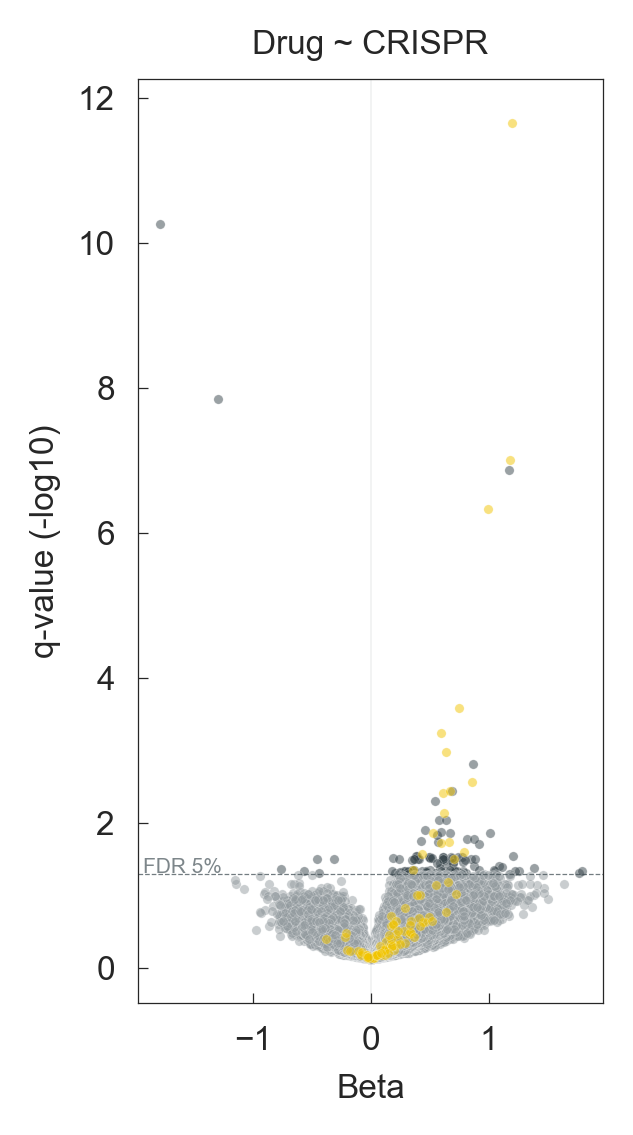
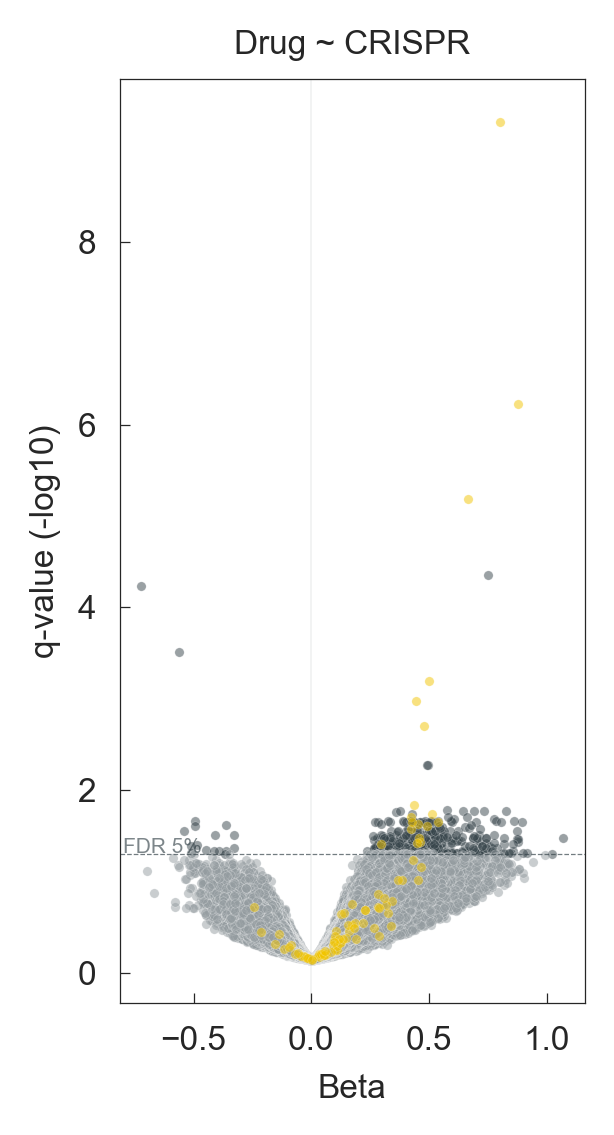
Kinship matrix with linear regression updated

diff --git a/scripts/drug/lmm_drug_crispr.py b/scripts/drug/lmm_drug_crispr.py
@@ -7,8 +7,9 @@ import pandas as pd
 import seaborn as sns
 import itertools as it
 import matplotlib.pyplot as plt
-from crispy import bipal_dbgd
-from scipy.stats import pearsonr
+from limix.plot import qqplot
+from crispy import bipal_dbgd, bipal_gray
+from scipy.stats import pearsonr, iqr, uniform
 from scipy.stats.stats import rankdata
 from limix.stats import qvalues, linear_kinship
 from limix.qtl import qtl_test_lmm, qtl_test_lm
@@ -44,6 +45,7 @@ print('Samples: %d' % len(samples))
 # Drug response
 d_response = d_response[d_response.count(1) > d_response.shape[1] * .85]
 d_response = d_response.loc[(d_response < d_response.mean().mean()).sum(1) >= 5]
+d_response = d_response.loc[[iqr(values, nan_policy='omit') > 1 for idx, values in d_response.iterrows()]]
 
 # CRISPR
 crispr = crispr[(crispr < crispr.loc[essential].mean().mean()).sum(1) < (crispr.shape[1] * .5)]
@@ -58,8 +60,7 @@ ys = d_response[samples].T
 ys = ys.fillna(ys.mean())
 
 xs = crispr[ys.index].T
-xs = xs.subtract(xs.mean())
-# xs = pd.DataFrame(gaussianize(xs.values), index=xs.index, columns=xs.columns)
+xs = pd.DataFrame(gaussianize(xs.values), index=xs.index, columns=xs.columns)
 
 k = kinship.loc[ys.index, ys.index]
 
@@ -159,52 +160,6 @@ plt.savefig('reports/drug/lmm_crispr_volcano.png', bbox_inches='tight', dpi=300)
 plt.close('all')
 
 
-# - Corrplot
-idx = 239896
-
-d_id, d_name, d_screen, gene = lmm_cd.loc[idx, ['drug_id', 'drug_name', 'drug_screen', 'crispr']].values
-
-plot_df = pd.DataFrame({
-    'drug': d_response.loc[(d_id, d_name, d_screen), samples],
-    'crispr': crispr.loc[gene, samples],
-}).dropna()
-plot_df = pd.concat([plot_df, ss.loc[plot_df.index, ['Cancer Type', 'Microsatellite']]], axis=1)
-
-
-def marginal_distplot(a, vertical=False, **kws):
-    x = plot_df['drug'] if vertical else plot_df['crispr']
-    ax = sns.distplot(x, vertical=vertical, **kws)
-    ax.set_ylabel('')
-    ax.set_xlabel('')
-    ax.set_ylim((min(x) * 1.05, max(x) * 1.05)) if vertical else ax.set_xlim((min(x) * 1.05, max(x) * 1.05))
-
-
-sns.set(
-    style='ticks', context='paper', font_scale=.75,
-    rc={'axes.linewidth': .3, 'xtick.major.width': .3, 'ytick.major.width': .3, 'xtick.major.size': 2.5, 'ytick.major.size': 2.5}
-)
-g = sns.JointGrid('crispr', 'drug', plot_df, space=0, ratio=8)
-
-sns.regplot(
-    x='crispr', y='drug', data=plot_df, ax=g.ax_joint,
-    color=bipal_dbgd[0], truncate=True, fit_reg=True,
-    scatter_kws={'s': 10, 'edgecolor': 'w', 'linewidth': .3, 'alpha': .8}, line_kws={'linewidth': .5}
-)
-
-g.plot_marginals(marginal_distplot, color=bipal_dbgd[0], kde=False)
-
-g.annotate(pearsonr, template='R={val:.2g}, p={p:.1e}')
-
-g.ax_joint.axhline(0, ls='-', lw=0.1, c=bipal_dbgd[0])
-g.ax_joint.axvline(0, ls='-', lw=0.1, c=bipal_dbgd[0])
-
-g.set_axis_labels('%s (fold-change)' % gene, '%s (ln IC50)' % d_name)
-
-plt.gcf().set_size_inches(2, 2)
-plt.savefig('reports/drug/crispr_drug_corrplot.png', bbox_inches='tight', dpi=600)
-plt.close('all')
-
-
 # - Drug target Histogram
 sns.distplot(lmm_cd.query('target != 0')['beta'], label='All', color=bipal_dbgd[0], kde_kws={'lw': 1.})
 sns.distplot(lmm_cd.query('target == 0')['beta'], label='Target', color=bipal_dbgd[1], kde_kws={'lw': 1.})
@@ -222,22 +177,28 @@ plt.close('all')
 ax = plt.gca()
 
 _, _, patches = ax.hist(
-    lmm_cd.query('target != 0')['beta'], lmm_cd.query('target != 0').shape[0],
+    lmm_cd.query('target != 0')['pvalue'], lmm_cd.query('target != 0').shape[0],
     cumulative=True, normed=1, histtype='step', label='All', color=bipal_dbgd[0], lw=1.
 )
 patches[0].set_xy(patches[0].get_xy()[:-1])
 
 _, _, patches = ax.hist(
-    lmm_cd.query('target == 0')['beta'], lmm_cd.query('target == 0').shape[0],
+    lmm_cd.query('target == 0')['pvalue'], lmm_cd.query('target == 0').shape[0],
     cumulative=True, normed=1, histtype='step', label='Target', color=bipal_dbgd[1], lw=1.
 )
 patches[0].set_xy(patches[0].get_xy()[:-1])
 
-ax.axvline(0, lw=.1, c=bipal_dbgd[0], alpha=.5, ls='-')
-ax.axhline(0, lw=.1, c=bipal_dbgd[0], alpha=.5, ls='-')
+_, _, patches = ax.hist(
+    uniform.rvs(size=lmm_cd.shape[0]), lmm_cd.shape[0],
+    cumulative=True, normed=1, histtype='step', label='Random', color='gray', lw=.3, ls='--'
+)
+patches[0].set_xy(patches[0].get_xy()[:-1])
+
+plt.xlim(0, 1)
+plt.ylim(0, 1)
 
 # ax.set_title('Copy-number correlation with CRISPR bias')
-ax.set_xlabel('Drug ~ CRISPR beta')
+ax.set_xlabel('Drug ~ CRISPR p-value')
 ax.set_ylabel('Cumulative distribution')
 
 ax.legend(loc='upper left')
@@ -246,3 +207,49 @@ plt.gcf().set_size_inches(2.5, 2)
 plt.savefig('reports/drug/drug_target_cum_dist.png', bbox_inches='tight', dpi=600)
 plt.close('all')
 
+
+# # - Corrplot
+# idx = 205654
+#
+# d_id, d_name, d_screen, gene = lmm_cd.loc[idx, ['drug_id', 'drug_name', 'drug_screen', 'crispr']].values
+#
+# plot_df = pd.DataFrame({
+#     'drug': d_response.loc[(d_id, d_name, d_screen), samples],
+#     'crispr': crispr.loc[gene, samples],
+# }).dropna()
+# plot_df = pd.concat([plot_df, ss.loc[plot_df.index, ['Cancer Type', 'Microsatellite']]], axis=1)
+#
+#
+# def marginal_distplot(a, vertical=False, **kws):
+#     x = plot_df['drug'] if vertical else plot_df['crispr']
+#     ax = sns.distplot(x, vertical=vertical, **kws)
+#     ax.set_ylabel('')
+#     ax.set_xlabel('')
+#     ax.set_ylim((min(x) * 1.05, max(x) * 1.05)) if vertical else ax.set_xlim((min(x) * 1.05, max(x) * 1.05))
+#
+#
+# sns.set(
+#     style='ticks', context='paper', font_scale=.75,
+#     rc={'axes.linewidth': .3, 'xtick.major.width': .3, 'ytick.major.width': .3, 'xtick.major.size': 2.5, 'ytick.major.size': 2.5}
+# )
+# g = sns.JointGrid('crispr', 'drug', plot_df, space=0, ratio=8)
+#
+# sns.regplot(
+#     x='crispr', y='drug', data=plot_df, ax=g.ax_joint,
+#     color=bipal_dbgd[0], truncate=True, fit_reg=True,
+#     scatter_kws={'s': 10, 'edgecolor': 'w', 'linewidth': .3, 'alpha': .8}, line_kws={'linewidth': .5}
+# )
+#
+# g.plot_marginals(marginal_distplot, color=bipal_dbgd[0], kde=False)
+#
+# g.annotate(pearsonr, template='R={val:.2g}, p={p:.1e}')
+#
+# g.ax_joint.axhline(0, ls='-', lw=0.1, c=bipal_dbgd[0])
+# g.ax_joint.axvline(0, ls='-', lw=0.1, c=bipal_dbgd[0])
+#
+# g.set_axis_labels('%s (fold-change)' % gene, '%s (ln IC50)' % d_name)
+#
+# plt.gcf().set_size_inches(2, 2)
+# plt.savefig('reports/drug/crispr_drug_corrplot.png', bbox_inches='tight', dpi=600)
+# plt.close('all')
+#
